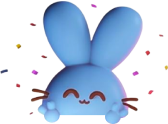
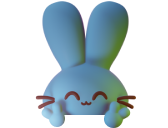
Predictions/overlay opacity (#1127)
* chore: Update prize bunny decoration

* style: Move winning overlay outside opacity

* chore: Fix import

diff --git a/src/views/Predictions/components/RoundCard/ExpiredRoundCard.tsx b/src/views/Predictions/components/RoundCard/ExpiredRoundCard.tsx
@@ -1,6 +1,6 @@
 import React from 'react'
 import styled from 'styled-components'
-import { BlockIcon, CardBody } from '@pancakeswap/uikit'
+import { Box, BlockIcon, CardBody } from '@pancakeswap/uikit'
 import { useTranslation } from 'contexts/Localization'
 import { Round, BetPosition } from 'state/types'
 import { RoundResult } from '../RoundResult'
@@ -46,34 +46,36 @@ const ExpiredRoundCard: React.FC<ExpiredRoundCardProps> = ({
   }
 
   return (
-    <StyledExpiredRoundCard>
-      <CardHeader
-        status="expired"
-        icon={<BlockIcon mr="4px" width="21px" color="textDisabled" />}
-        title={t('Expired')}
-        blockNumber={endBlock}
-        epoch={round.epoch}
-      />
-      <CardBody p="16px" style={{ position: 'relative' }}>
-        <CollectWinningsOverlay roundId={id} hasEntered={hasEntered} isBottom={hasEnteredDown} />
-        <MultiplierArrow
-          totalAmount={bullAmount}
-          betAmount={betAmount}
-          multiplier={bullMultiplier}
-          isActive={betPosition === BetPosition.BULL}
-          hasEntered={hasEnteredUp}
+    <Box position="relative">
+      <StyledExpiredRoundCard>
+        <CardHeader
+          status="expired"
+          icon={<BlockIcon mr="4px" width="21px" color="textDisabled" />}
+          title={t('Expired')}
+          blockNumber={endBlock}
+          epoch={round.epoch}
         />
-        <RoundResult round={round} />
-        <MultiplierArrow
-          totalAmount={bearAmount}
-          betAmount={betAmount}
-          multiplier={bearMultiplier}
-          betPosition={BetPosition.BEAR}
-          isActive={betPosition === BetPosition.BEAR}
-          hasEntered={hasEnteredDown}
-        />
-      </CardBody>
-    </StyledExpiredRoundCard>
+        <CardBody p="16px" style={{ position: 'relative' }}>
+          <MultiplierArrow
+            totalAmount={bullAmount}
+            betAmount={betAmount}
+            multiplier={bullMultiplier}
+            isActive={betPosition === BetPosition.BULL}
+            hasEntered={hasEnteredUp}
+          />
+          <RoundResult round={round} />
+          <MultiplierArrow
+            totalAmount={bearAmount}
+            betAmount={betAmount}
+            multiplier={bearMultiplier}
+            betPosition={BetPosition.BEAR}
+            isActive={betPosition === BetPosition.BEAR}
+            hasEntered={hasEnteredDown}
+          />
+        </CardBody>
+      </StyledExpiredRoundCard>
+      <CollectWinningsOverlay roundId={id} hasEntered={hasEntered} isBottom={hasEnteredDown} />
+    </Box>
   )
 }
 

diff --git a/src/views/Predictions/components/RoundCard/CollectWinningsOverlay.tsx b/src/views/Predictions/components/RoundCard/CollectWinningsOverlay.tsx
@@ -30,7 +30,7 @@ const Wrapper = styled(Flex)<{ isBottom: CollectWinningsOverlayProps['isBottom']
       bottom: 0;
     `
       : `
-      top: 0;
+      top: 37px; // Card header height
     `
   }}
 `
